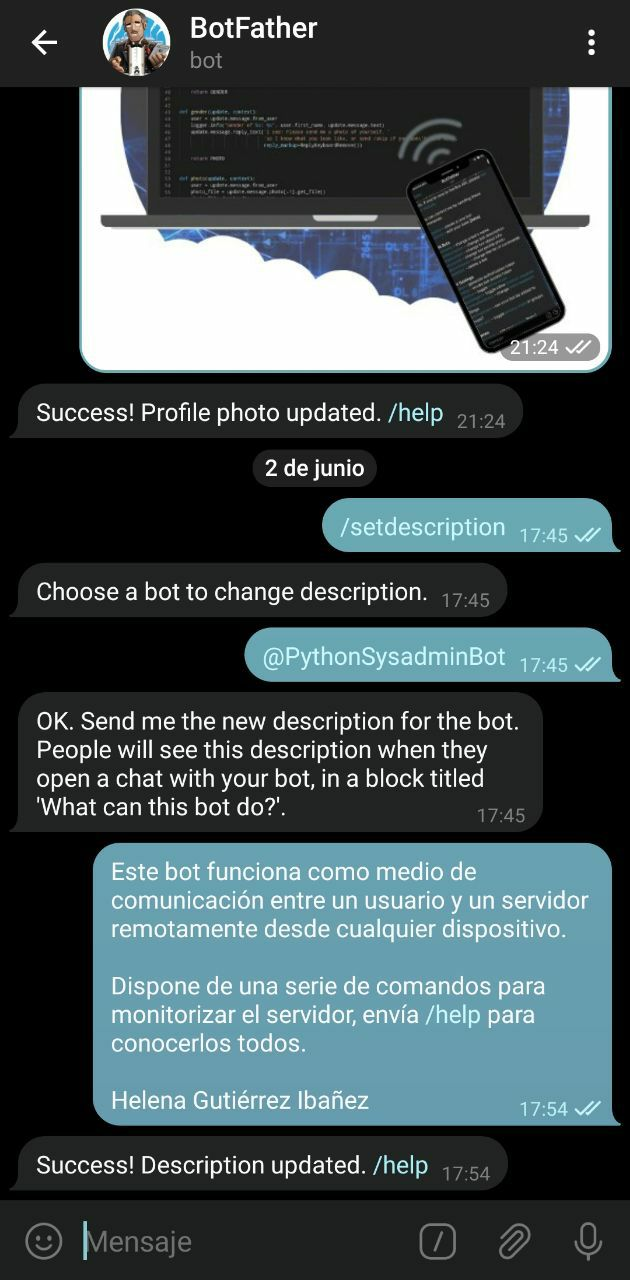
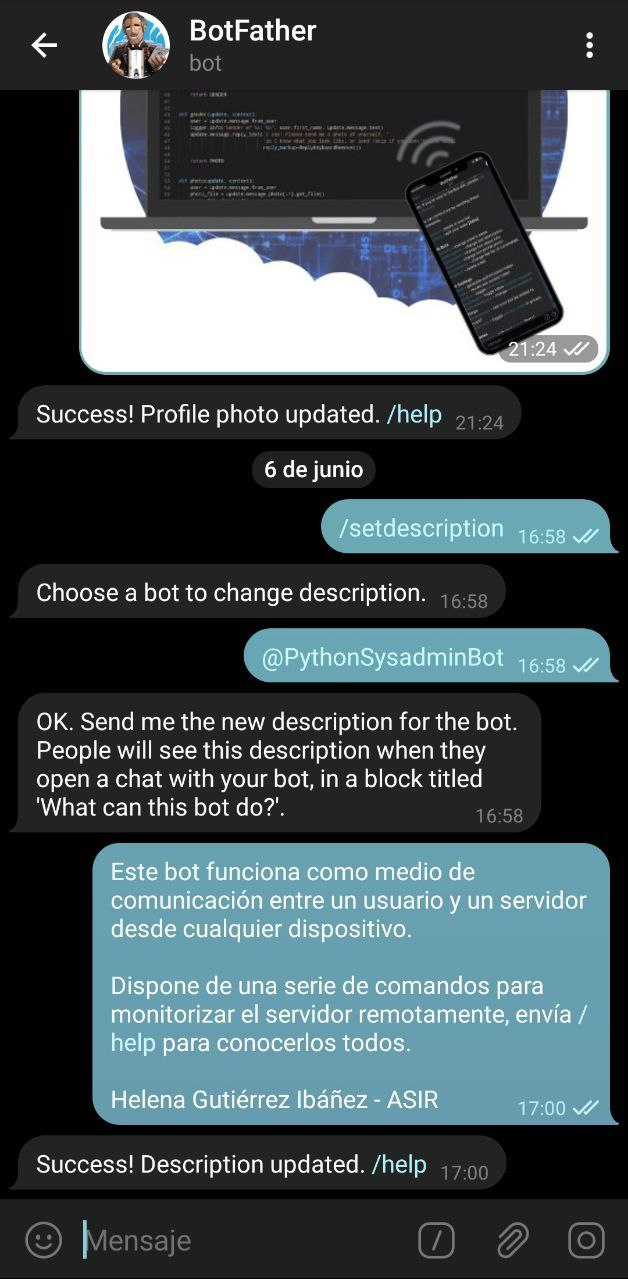
Todos menos imagenes

diff --git a/bot.py b/bot.py
@@ -156,17 +156,16 @@ def help(update,context):
         # Listamos todos los comandos
         update.message.reply_text(
             'LISTA DE COMANDOS \n\n'
-            '/start - inicio del bot \n\n'
             '/cancel - cancelar un comando \n\n'
             '/nombre - nombre del servidor \n\n'
             '/ip - ip del servidor \n\n'
             '/red - red a la que está conectado el servidor \n\n'
             '/arquitectura - arquitectura del sistema del servidor \n\n'
-            '/version - version de Linux del servidor \n\n'
+            '/version - versión de Linux del servidor \n\n'
+            '/usuarios - usuarios conectados al servidor \n\n'
             '/espacio - espacio del sistema del servidor \n\n'
             '/memoria - memoria del servidor \n\n'
             '/procesos - procesos en ejecución en el servidor \n\n'
-            '/usuarios - usuarios conectados al servidor \n\n'
             '/estado_servicio (servicio) - estado de un servicio \n\n'
             '/iniciar_servicio (servicio) - iniciar un servicio \n\n'
             '/parar_servicio (servicio) - parar un servicio \n\n'
@@ -304,6 +303,31 @@ def version(update,context):
             'No perteneces a los usuarios autorizados'
         )
 
+def usuarios(update,context):
+    # Comprobamos si es un usuario autorizado
+    if update.message.chat_id in ids:
+        # Declaramos las variable globales
+        global comando_linux, respuesta
+        # Definimos el comando linux que queremos ejecutar
+        comando_linux = 'who'
+        # Preparamos la respuesta
+        respuesta = 'Los usuarios que están conectados al servidor ' + terminal_texto('hostname') + ' son: '
+
+        # Preguntamos y cambiamos el teclado por las opciones
+        keyboard = [['Texto', 'Imagen']]
+        update.message.reply_text(
+            '¿Quieres la respuesta en texto o en imagen?',
+            reply_markup=ReplyKeyboardMarkup(keyboard, one_time_keyboard=True)
+        )
+        
+        # Devolvemos el estado de la conversacion al que pasamos
+        return TIPO
+    else:
+        # Si no es un usuario autorizado
+        update.message.reply_text(
+            'No perteneces a los usuarios autorizados'
+        )
+
 def espacio(update,context):
     # Comprobamos si es un usuario autorizado
     if update.message.chat_id in ids:
@@ -379,31 +403,6 @@ def procesos(update,context):
             'No perteneces a los usuarios autorizados'
         )
 
-def usuarios(update,context):
-    # Comprobamos si es un usuario autorizado
-    if update.message.chat_id in ids:
-        # Declaramos las variable globales
-        global comando_linux, respuesta
-        # Definimos el comando linux que queremos ejecutar
-        comando_linux = 'who'
-        # Preparamos la respuesta
-        respuesta = 'Los usuarios que están conectados al servidor ' + terminal_texto('hostname') + ' son: '
-
-        # Preguntamos y cambiamos el teclado por las opciones
-        keyboard = [['Texto', 'Imagen']]
-        update.message.reply_text(
-            '¿Quieres la respuesta en texto o en imagen?',
-            reply_markup=ReplyKeyboardMarkup(keyboard, one_time_keyboard=True)
-        )
-        
-        # Devolvemos el estado de la conversacion al que pasamos
-        return TIPO
-    else:
-        # Si no es un usuario autorizado
-        update.message.reply_text(
-            'No perteneces a los usuarios autorizados'
-        )
-
 def servicios(update,context):
     # Comprobamos si es un usuario autorizado
     if update.message.chat_id in ids:
@@ -415,7 +414,7 @@ def servicios(update,context):
             # Declaramos el comando que se tiene que ejecutar
             if 'estado_servicio' in update.message.text:
                 # Comando para ver el estado
-                comando_linux = '/etc/init.d/' + context.args[0] + ' status | grep "Active"'
+                comando_linux = '/etc/init.d/' + context.args[0] + ' status | head -n3'
             elif 'iniciar_servicio' in update.message.text:
                 # Comando para iniciar
                 comando_linux = 'sudo /etc/init.d/' + context.args[0] + ' start'
@@ -464,10 +463,10 @@ def main():
                       CommandHandler('red', red),
                       CommandHandler('arquitectura', arquitectura),
                       CommandHandler('version', version),
+                      CommandHandler('usuarios', usuarios),
                       CommandHandler('espacio', espacio),
                       CommandHandler('memoria', memoria),
                       CommandHandler('procesos', procesos),
-                      CommandHandler('usuarios', usuarios),
                       CommandHandler('estado_servicio', servicios, pass_args=True),
                       CommandHandler('iniciar_servicio', servicios, pass_args=True),
                       CommandHandler('parar_servicio', servicios, pass_args=True),

diff --git a/comandos_linux.py b/comandos_linux.py
@@ -30,6 +30,3 @@ def terminal_imagen(entrada):
     
     # Ejecutamos el comando en el terminal
     os.popen(entrada)
-
-    # Dar permiso de ejecución
-    # os.popen('sudo chown helena:helena images/image.png')

diff --git a/README.md b/README.md
@@ -2,29 +2,20 @@
 
 ![Python para Sysadmin con Telegram](https://github.com/helee18/python_sysadmin/blob/master/images/titulo.png)
 ---
+
 **¿Qué puede hacer este bot?**
 
-Este bot funciona como medio de comunicación entre un usuario y un servidor remotamente desde cualquier dispositivo. 
+Este bot funciona como medio de comunicación entre un usuario y un servidor desde cualquier dispositivo. 
 
-Dispone de una serie de comandos para monitorizar el servidor, envía /help para conocerlos todos. 
+Dispone de una serie de comandos para monitorizar el servidor como puede ser: `/ip`, `/usuarios`, `/memoria` o `/parar_servicio`.
 
-Helena Gutiérrez Ibáñez 2ºASIR
-
-<img src="https://github.com/helee18/python_sysadmin/blob/master/images/botfather07.jpg" alt="descripcion" width="350"/>
-<img src="https://github.com/helee18/python_sysadmin/blob/master/images/help.jpg" alt="help" width="350"/><br>
-
-[`Telegram`](https://web.telegram.org/), una plataforma de mensajería, tiene la opción de crear bots de todo tipo. Los administradores de sistemas pueden hacer uso de estos bots para manipular o consultar el estado de un servidor creando uno. 
-
-Para ello se puede hacer uso de [`Python`](https://www.python.org/), un lenguaje de programación multiplataforma. Programaremos al bot para que responda a las distintas peticiones que le hagamos. Esto lo haremos desarrollando un script en el que reflejaremos cada mensaje de entrada que recibirá el bot y como responderá este. El script tendremos que ejecutar en un servidor para que el bot funciones y lo ejecutaremos en [`segundo plano`](https://www.atareao.es/como/procesos-en-segundo-plano-en-linux/). 
-```
-$ python3 bot.py &
-```
-
-- [`Crear un bot de Telegram`](#crear)
+- [`Bot de Telegram`](#bot)
+    - [`Crear un bot de Telegram`](#crear)
 - [`Instalar python-telegram-bot`](#instalar)
     - [`Entorno de desarrollo virutal`](#venv)
     - [`Instalación con pip`](#pip)
     - [`Instalación clonando el repositorio`](#github)
+- [`Ejecutar bot`](#ejecutar)
 - [`Elementos básicos del script del bot`](#basicos)
     - [`Importar módulos`](#import)
     - [`Logging`](#logging)
@@ -36,9 +27,9 @@ $ python3 bot.py &
     - [`Control de usuarios`](#usuarios)
     - [`Comando /start`](#start)
     - [`Comando /help `](#help)
+    - [`Sugerir comandos`](#sugerir)
     - [`Comandos no definidos`](#echo)
     - [`Log de errores`](#error)
-- [`Ejecución del script del bot`](#ejecutar)
 - [`Funciones para ejecutar comandos en Linux`](#comandos_linux)
     - [`Función que devuelve la respuesta en forma de texto`](#terminal_texto)
     - [`Función que devuelve la respuesta en forma de imagen`](#terminal_imagen)
@@ -57,11 +48,21 @@ $ python3 bot.py &
     - [`Comando /procesos`](#procesos)
     - [`Comando servicios (/estado_servicio, /iniciar_servicio, /parar_servicio y /reiniciar_servicio)`](#servicios)
 
+[Inicio](#top)<br>
+
+<a name="bot"></a>
+
+## Bot de Telegram
+
+La plataforma de mensajería [`Telegram`](https://web.telegram.org/) tiene la opción de ejecutar bots dentro de ella. Estos bots puede hacer prácticamente cualquier cosa como mostrar noticias, crear herramientas personalizadas, integrarse con otros servicios o incluso crear juegos para un jugador o varios.
+
+Los usuarios pueden interactuar con el bot enviandoles mensajes o comandos desde el chat con el bot o añadiendolo a un grupo. También se pueden enviar solicitudes desde cualquier chat, grupo o canal escribiendo el nombre del bot y la consulta.
+
 <a name="crear"></a>
 
-## Crear un bot de Telegram
+### Crear un bot de Telegram
 
-El primer paso para crear un bot tenemos que iniciar [`BotFather`](https://telegram.me/BotFather), el bot principal que reconoce una serie de comandos, desde Telegram. Como respuesta, nos devuelve el `token` identificativo de nuestro bot.<br><br>
+El primer paso para crear un bot es iniciar [`BotFather`](https://telegram.me/BotFather), el bot principal de telegram que reconoce una serie de comandos. Como respuesta, nos devuelve el `token` identificativo de nuestro bot.<br>
 <img src="https://github.com/helee18/python_sysadmin/blob/master/images/botfather01.jpg" alt="BotFather" width="350"/>
 <img src="https://github.com/helee18/python_sysadmin/blob/master/images/botfather02.jpg" alt="start" width="350"/><br>
 
@@ -81,6 +82,16 @@ Podemos añadir una descripción para nuestro bot con `\setdescription`. Esta ap
 <a name="instalar"></a>
 
 ## Instalar python-telegram-bot
+
+Para programar el bot se puede hacer uso de [`Python`](https://www.python.org/), un lenguaje de programación multiplataforma. Configuraremos al bot para que responda a las distintas peticiones que le hagamos. Esto lo haremos desarrollando un script en el que reflejaremos cada comando de entrada que recibirá el bot y como responderá este.
+
+Para [`Python`](https://www.python.org/) existen varias librerías con las que desarrollar bots de [`Telegram`](https://web.telegram.org/) como por ejemplo [`python-telegram-bot`](https://github.com/python-telegram-bot/python-telegram-bot).
+
+El submódulo [`telegram.ext`](https://python-telegram-bot.readthedocs.io/en/stable/telegram.html) proporciona una interfaz fácil de usar y le quita algo de trabajo al programador.
+
+Se compone de varias clases, pero las dos más importantes son [`telegram.ext.Updater`](https://python-telegram-bot.readthedocs.io/en/stable/telegram.ext.updater.html) y `[telegram.ext.Dispatcher`](https://python-telegram-bot.readthedocs.io/en/stable/telegram.ext.dispatcher.html).
+
+[`Updater`](https://python-telegram-bot.readthedocs.io/en/stable/telegram.ext.updater.html) que es una clase que ayuda al programador a codificar el bot. Recibe actualizaciones de [`Telegram`](https://web.telegram.org/) y las manda al [`Dispatcher`](https://python-telegram-bot.readthedocs.io/en/stable/telegram.ext.dispatcher.html). El [`Dispatcher`](https://python-telegram-bot.readthedocs.io/en/stable/telegram.ext.dispatcher.html) maneja las actualizaciones y las manda a los [`Handlers`](https://python-telegram-bot.readthedocs.io/en/stable/telegram.ext.handler.html).
 
 <a name="venv"></a>
 
@@ -161,6 +172,29 @@ $ sudo apt-get install build-essential python-dev
 
 <a name="basicos"></a>
 
+## Ejecutar bot
+
+Cuando hayamos desarrollado el script de nuestro bot, ejecutamos este en segundo plano.
+```
+$ python3 bot.py &
+```
+
+Para poder ver los procesos que tenemos en segundo plano escribimos `jobs` en nuestro terminal y aparece un número delante del estado del proceso. Para pasar a primer plano el bot y poder pararlo con `Ctrl-C` escibimos `fg` y el número que le corresponda.
+```
+$ jobs
+
+[1]+  Ejecutando              python3 bot.py &
+```
+```
+fg 1
+```
+
+Para ejecutar el bot se puede hacer en un `serverless` como [`AWS Lambda`](https://aws.amazon.com/es/lambda/), que permite ejecutar código y que el bot se quede a la espera de peticiones. `Serverless` es un modelo de ejecución en el que el proveedor de la nube (AWS) es responsable de ejecutar el fragmento de codigo mediante la asignación dinámica de recursos. 
+
+[Inicio](#top)<br>
+
+<a name="basicos"></a>
+
 ## [Elementos básicos del script del bot](https://github.com/helee18/python_sysadmin/blob/master/ejemplo-bot.py)
 
 <a name="import"></a>
@@ -212,7 +246,7 @@ if __name__ == '__main__':
 ### Introducción del token
 Definimos la función `main` y dentro de esta programamos el script del bot. Lo primero que tenemos que definir el `updater`, donde introducimos nuestro `token`.
 
-Hacemos uso de [`Updater`](https://python-telegram-bot.readthedocs.io/en/stable/telegram.ext.updater.html) que es una clase que ayuda al programador a codificar el bot. Recibe actualizaciones de telegram y las manda al [`Dispatcher`](https://python-telegram-bot.readthedocs.io/en/stable/telegram.ext.dispatcher.html). El [`Dispatcher`](https://python-telegram-bot.readthedocs.io/en/stable/telegram.ext.dispatcher.html) maneja las actualizaciones y las manda a los [`Handlers`](https://python-telegram-bot.readthedocs.io/en/stable/telegram.ext.handler.html).
+Hacemos uso de [`Updater`](https://python-telegram-bot.readthedocs.io/en/stable/telegram.ext.updater.html) que es la clase que recibe las actualizaciones de [`Telegram`](https://web.telegram.org/).
 
 Añadimos `user_content=True` para usar las nuevas devoluciones basadas en contexto (`context based callbacks`). [`CallbackContext`](https://github.com/python-telegram-bot/python-telegram-bot/wiki/Transition-guide-to-Version-12.0#what-exactly-is-callbackcontext) es un objeto que contiene contexto adicional de update, error o job. Esto almacena chat_data, user_data, job, error y argumentos. Puede producirse un fallo de uso de la antigua API dependiendo de la versión si no se añade, aunque en la versión 13 no hace falta ya que por defecto es `True`.
 ```
@@ -300,8 +334,8 @@ Hay que tener en cuenta que los `ids` no se ponen entre comillas porque son dato
 ids = [ID1, ID2, ID3]
 ```
 
-Para poder conocer el `id` de un usuario, tenemos que iniciar el bot [`userinfobot`](https://telegram.me/userinfobot) y este nos dará nuestra información.
-<img src="https://github.com/helee18/python_sysadmin/blob/master/images/userinfobot.jpg" alt="start" width="350"/>
+Para poder conocer el `id` de un usuario, tenemos que iniciar el bot [`userinfobot`](https://telegram.me/userinfobot) y este nos dará nuestra información.<br>
+<img src="https://github.com/helee18/python_sysadmin/blob/master/images/userinfobot.jpg" alt="start" width="350"/><br>
 
 Al igual que con el `token` tenemos que importar la lista de `ids`.
 ```
@@ -368,6 +402,17 @@ def help(update,context):
         )
 ```
 <img src="https://github.com/helee18/python_sysadmin/blob/master/images/help.jpg" alt="help" width="350"/><br>
+
+[Inicio](#top)<br>
+
+<a name="sugerir"></a>
+
+### Sugerir comandos
+También podemos hacer que el bot nos sugiera que comandos queremos mandar. Para esto tenemos que mandarle al [`BotFather`](https://telegram.me/BotFather) el comando `/setcommands` y después la lista de comandos de los que dispone el bot junto con su descripción.<br>
+<img src="https://github.com/helee18/python_sysadmin/blob/master/images/botfather08.jpg" alt="setcommands" width="350"/><br>
+
+Cuando escribamos `/` en la barra de mensaje en la conversación con el bot o le demos al botón, nos saldrán todos los comandos que podemos enviar.<br>
+<img src="https://github.com/helee18/python_sysadmin/blob/master/images/sugerir_comandos.jpg" alt="sugerir_comandos" width="350"/><br>
 
 [Inicio](#top)<br>
 
@@ -448,7 +493,7 @@ Después utilizamos el método [`readlines()`](https://uniwebsidad.com/libros/py
         salida += i 
 ```
 
-Eliminamos el último caracter, que será el salto de línea o retorno de carro (\n).
+Eliminamos el último caracter, que será el salto de línea o retorno de carro (`\n`).
 ```
     salida = salida[:-1]
 ```

diff --git a/webgrafia.md b/webgrafia.md
@@ -1,14 +1,20 @@
 ## WEBGRAFIA
 
-### Segundo plano
-
-https://www.atareao.es/como/procesos-en-segundo-plano-en-linux/
-
 ### Creacion del bot
 
 https://core.telegram.org/bots
 
 https://www.youtube.com/watch?v=h2J6-03MsnQ 
+
+### Segundo plano
+
+https://www.atareao.es/como/procesos-en-segundo-plano-en-linux/
+
+### Serverless
+
+https://aws.amazon.com/es/lambda/
+
+https://serverless-stack.com/chapters/es/what-is-serverless.html
 
 ### Modulo os
 
@@ -64,9 +70,9 @@ https://github.com/python-telegram-bot/python-telegram-bot/wiki/Transition-guide
 
 https://python-telegram-bot.readthedocs.io/en/stable/telegram.update.html
 
-### Texto en negrita
+### setcommands
 
-https://stackoverflow.com/questions/52163959/how-can-i-bold-text-in-telepot-telegram-bot  
+https://stackoverflow.com/questions/34457568/how-to-show-options-in-telegram-bot
 
 ### Función terminal
 
